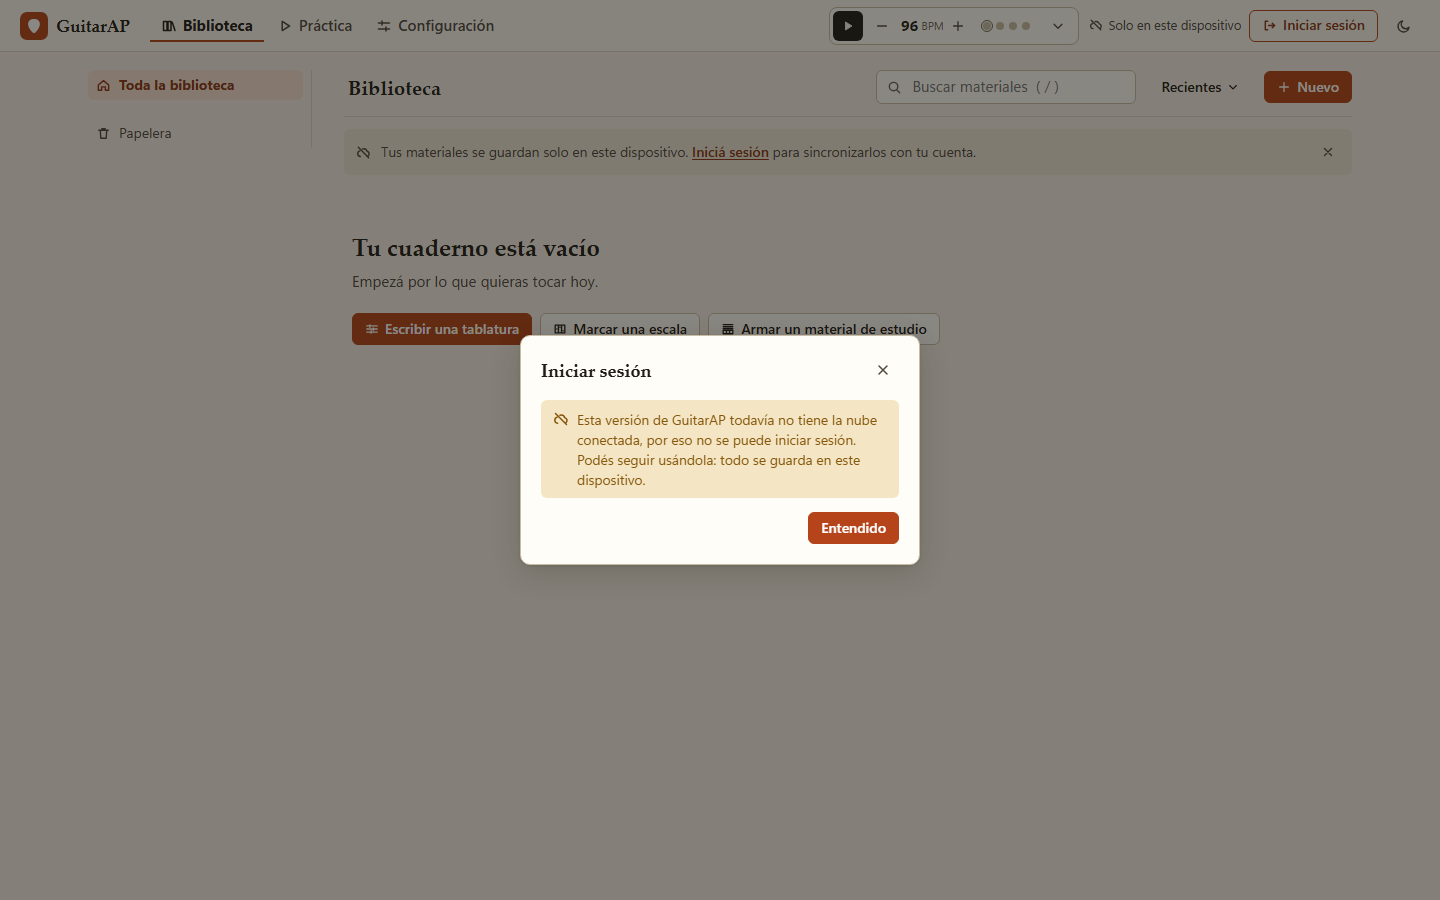
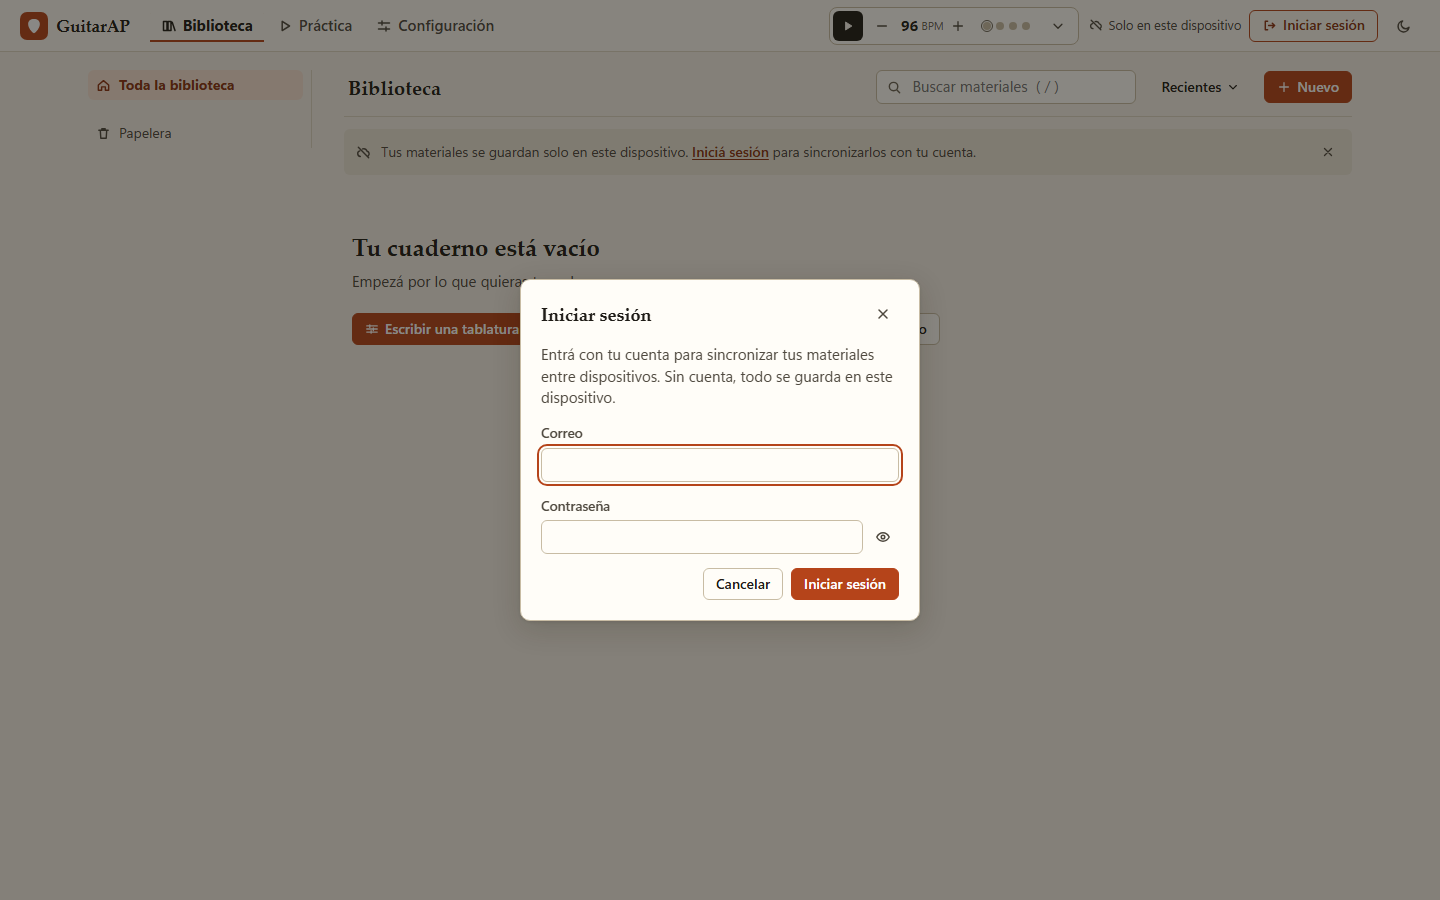
docs(evidence): published sign-in form after the deployment fix

Changed region(s): [[0.3438, 0.3111, 0.6562, 0.7156]]

diff --git a/docs/evidence/README.md b/docs/evidence/README.md
@@ -27,4 +27,4 @@ La autenticación y la sincronización se responden localmente: no se usa ningun
 | 17 | Configuración |
 | 18 / 18a–c | Sincronización y copias de seguridad |
 | 19–21 | Tablet y móvil |
-| 22 / 23 | Sitio publicado (guitarap.pages.dev): primera visita y diálogo de inicio de sesión. El build público aún no tiene `VITE_SUPABASE_*`, por eso el diálogo avisa que la nube no está conectada |
+| 22 / 23 | Sitio publicado (guitarap.pages.dev): primera visita y diálogo de inicio de sesión con el formulario de correo y contraseña (nube conectada; `/build-info.json` lo confirma). |
